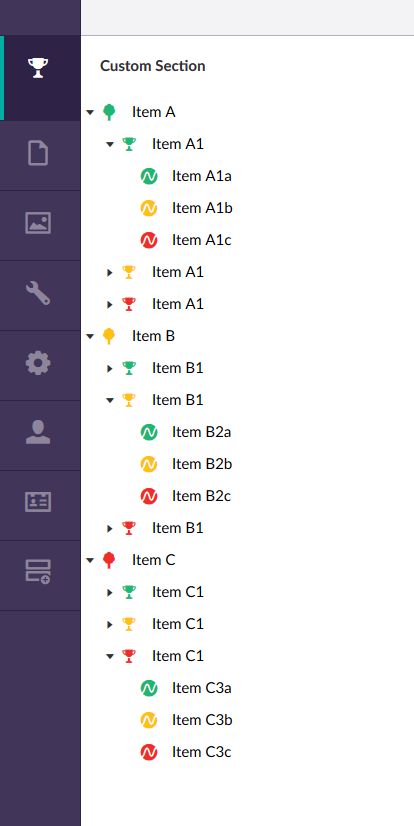
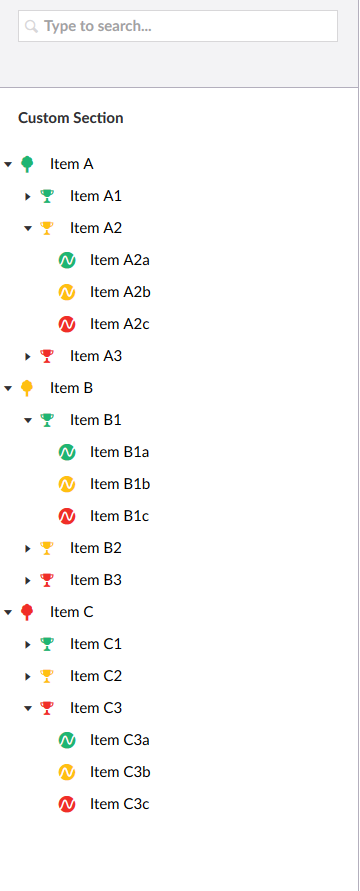
Fixes

diff --git a/CustomSection/Controllers/CustomTreeController.cs b/CustomSection/Controllers/CustomTreeController.cs
@@ -23,8 +23,8 @@ namespace UmbracoCustomSection.App_Plugins.CustomSection.Controllers
             else if (id.Length == 1)
             {
                 collection.Add(CreateTreeNode($"{id}1", id, queryStrings, $"Item {id}1", "icon-trophy color-green", true));
-                collection.Add(CreateTreeNode($"{id}2", id, queryStrings, $"Item {id}1", "icon-trophy color-yellow", true));
-                collection.Add(CreateTreeNode($"{id}3", id, queryStrings, $"Item {id}1", "icon-trophy color-red", true));
+                collection.Add(CreateTreeNode($"{id}2", id, queryStrings, $"Item {id}2", "icon-trophy color-yellow", true));
+                collection.Add(CreateTreeNode($"{id}3", id, queryStrings, $"Item {id}3", "icon-trophy color-red", true));
             }
             else if (id.Length == 2)
             {

diff --git a/docs/tree.md b/docs/tree.md
@@ -70,8 +70,8 @@ protected override TreeNodeCollection GetTreeNodes(string id, FormDataCollection
 	else if (id.Length == 1)
 	{
 		collection.Add(CreateTreeNode($"{id}1", id, queryStrings, $"Item {id}1", "icon-trophy color-green", true));
-		collection.Add(CreateTreeNode($"{id}2", id, queryStrings, $"Item {id}1", "icon-trophy color-yellow", true));
-		collection.Add(CreateTreeNode($"{id}3", id, queryStrings, $"Item {id}1", "icon-trophy color-red", true));
+		collection.Add(CreateTreeNode($"{id}2", id, queryStrings, $"Item {id}2", "icon-trophy color-yellow", true));
+		collection.Add(CreateTreeNode($"{id}3", id, queryStrings, $"Item {id}3", "icon-trophy color-red", true));
 	}
 	else if (id.Length == 2)
 	{
